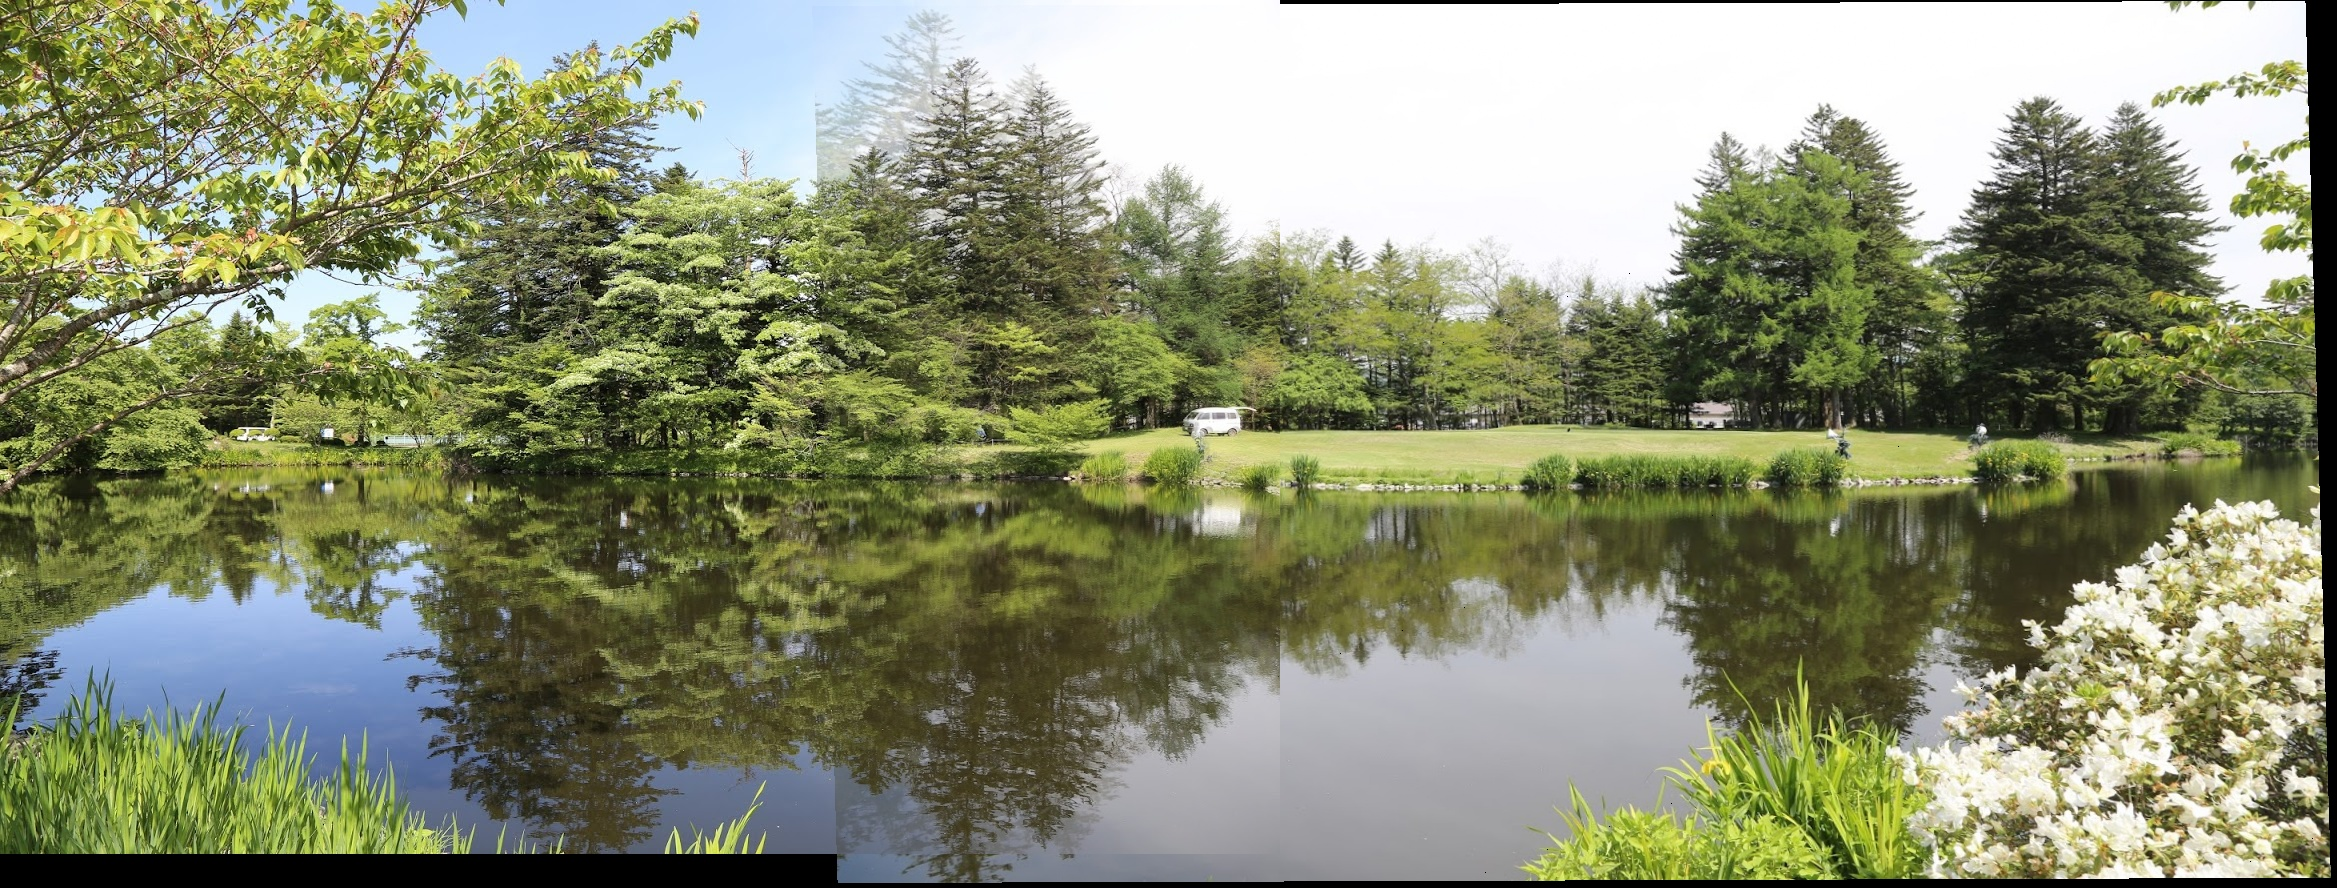
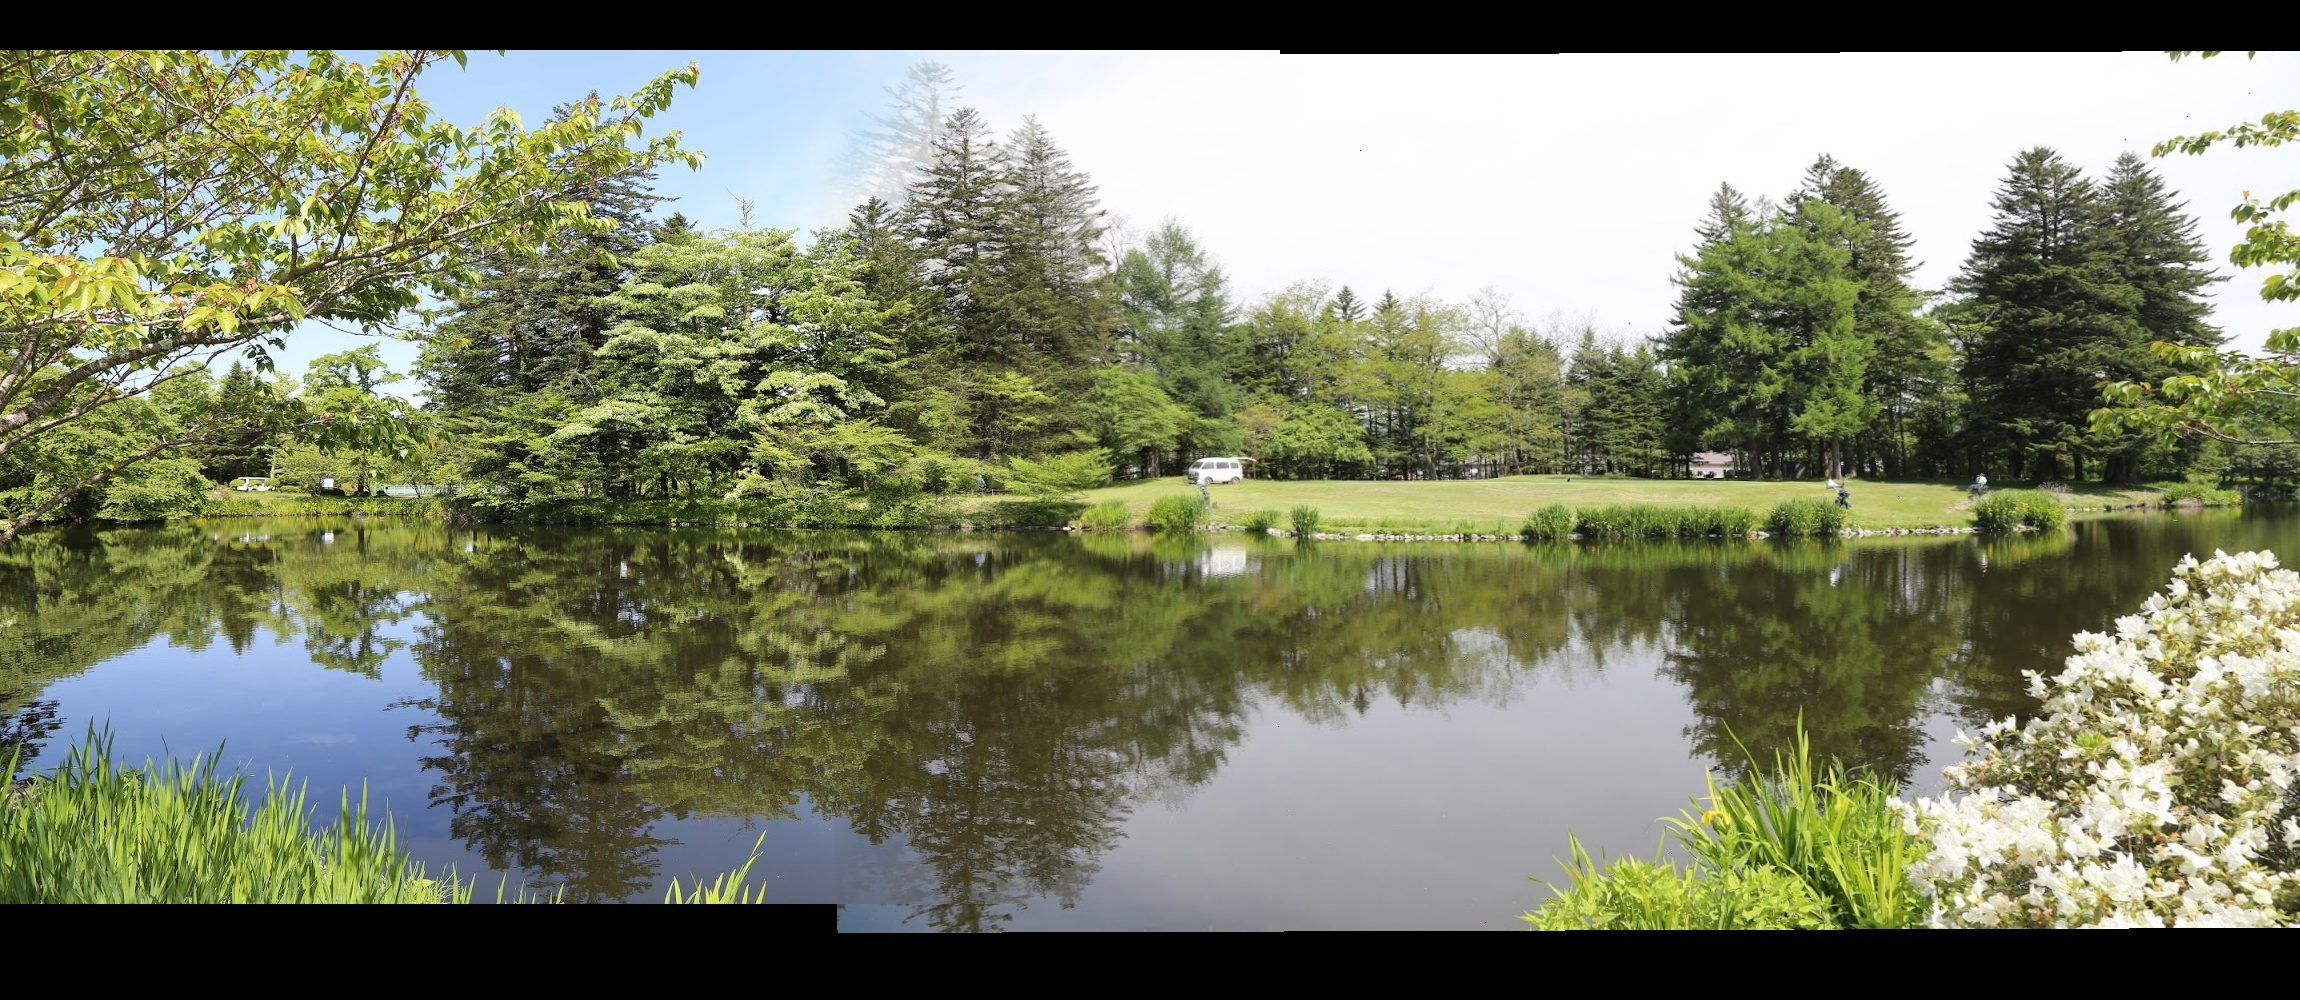
d

diff --git a/image_stitching_inverse_mapping_5108050006.py b/image_stitching_inverse_mapping_5108050006.py
@@ -44,7 +44,7 @@ import math
 import cv2
 
 
-h_offset = 10
+h_offset = 50
 
 print("利用三個點 算出座標轉換的關係式 用for跑轉換 以binear方法計算內插顏色 填到目標影像中")
 # A 組合
@@ -55,7 +55,7 @@ target = np.array(
      [0, 0, 1071, 480+h_offset, 0, 1],
      [1112, 192+h_offset, 0, 0, 1, 0], 
      [0, 0, 1112, 192+h_offset, 0, 1]])
-src = np.array([369,393,209,459,251,181])
+src = np.array([369,393,209, 459,251,181])
 
 param = np.linalg.solve(target,src)  # 解聯立方程 - Affine Transformation
 print(param)
@@ -72,7 +72,7 @@ print('pic2 shape:', pic2.shape)
 
 # initial merged 變數，用以存放拼接影像，初始化成黑色
 merged_width = 2300   
-merged_height = 900
+merged_height = 1000
 merged = np.zeros((merged_height, merged_width, 3))
 
 # 將左邊照片pic1先放入merged
@@ -126,6 +126,9 @@ for y in range(merged_height):
             # 照片交集的部份，以 Linear Blending 方式計算顏色比例。
             # 點靠近左邊照片，左邊權重大。點靠近右邊照片，右邊權重大。
             if merged[y, x, 0] > 0 or merged[y, x, 1] > 0 or merged[y, x, 2] > 0 :   # 3 channel 有一維不是0，表是是交集處。此處有點鳥，應該有更好的判斷方法。
+            
+                # print(x)
+                # break
 
                 # weight = 0.5      # 交集處各取一半
                 weight =  (x-812) / (1280-812)  # blending 計算，這裡也有點鳥，寫死了，手工找了交集範圍
@@ -138,7 +141,7 @@ for y in range(merged_height):
             else:
                 merged[y, x, 0] = int(itp_r)  # 未在交集內，直接用 binear interpolation 的顏色
                 merged[y, x, 1] = int(itp_g)
-                merged[y, x, 2] = int(itp_b)
+                merged[y, x, 2] = int(itp_b) 
 
             # merged[y, x, 0] = int(itp_r)  
             # merged[y, x, 1] = int(itp_g)
@@ -149,12 +152,12 @@ for y in range(merged_height):
     print('')
 
 merged = merged.astype(np.uint8)
-merged_corp = merged[14:864, :, :]
+# merged_corp = merged[14:864, :, :]
 
 # minInColumns = np.amin(merged[:,:,0], axis=0)
 
 cv2.imshow("res", merged)            
-cv2.imwrite("merged_corp.jpg",merged_corp)
+cv2.imwrite("merged_A.jpg",merged)
 
 cv2.waitKey(0)
 cv2.destroyAllWindows()
